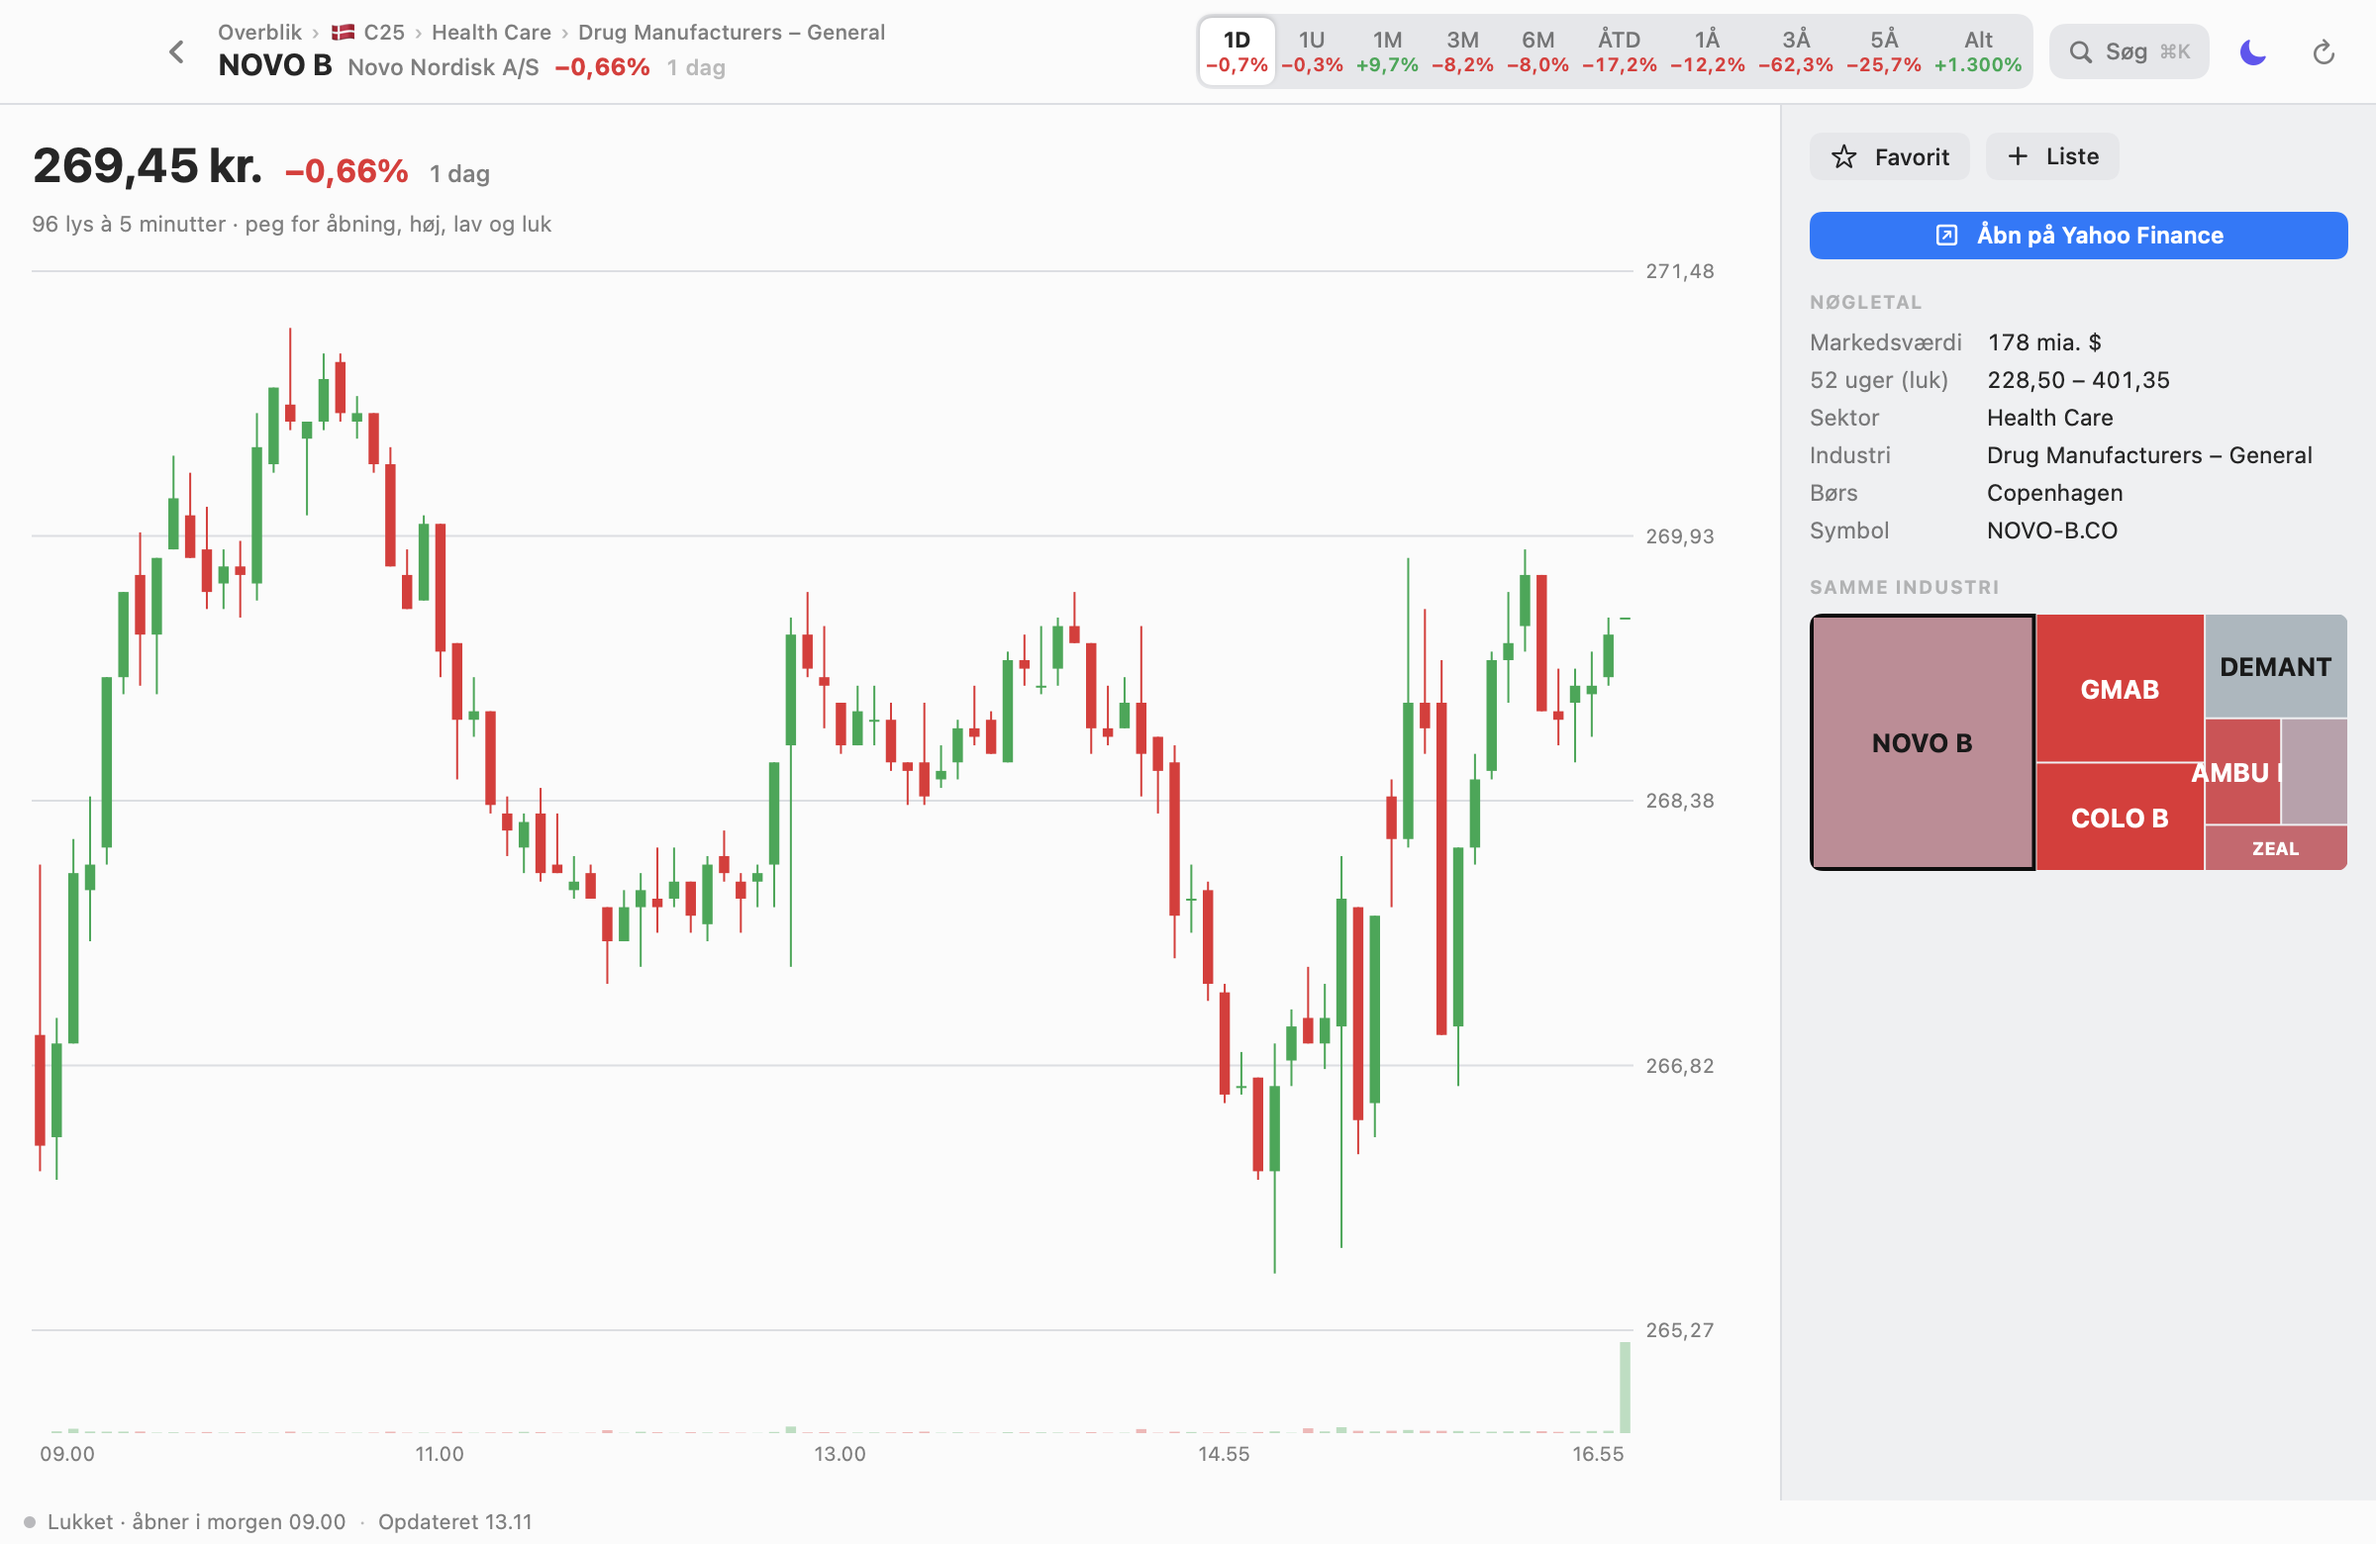
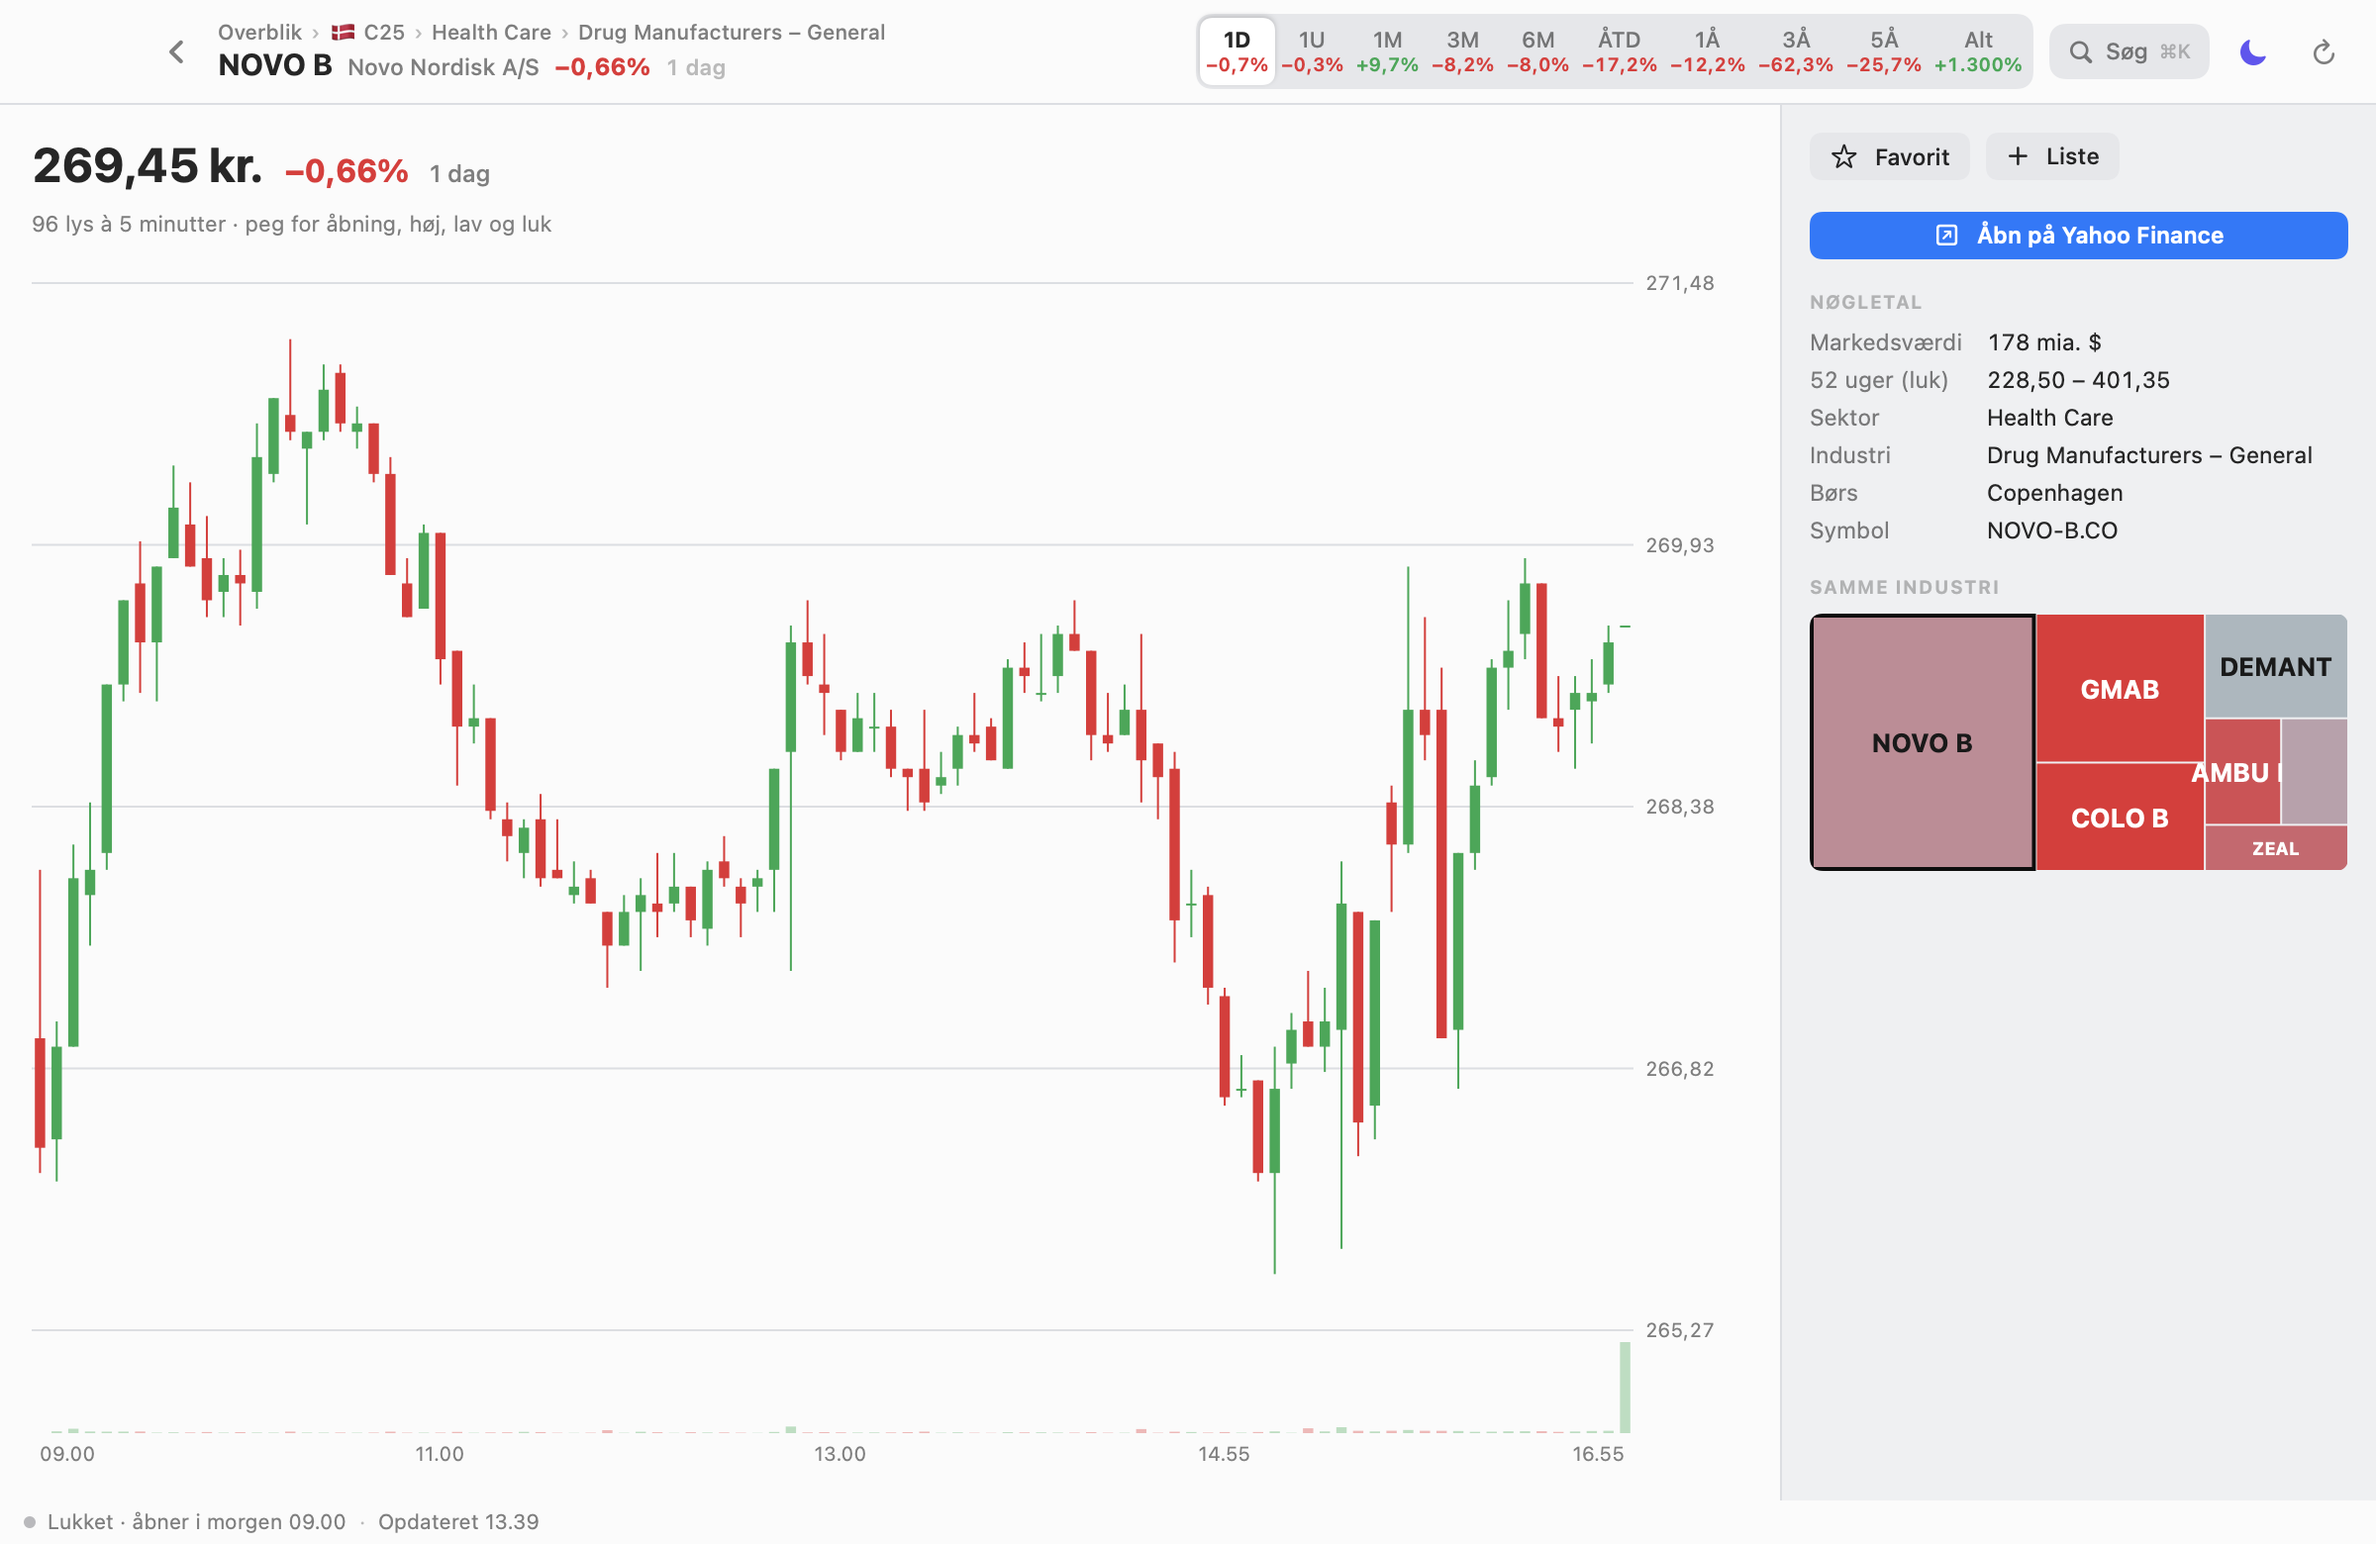
Keep the chart's top price label inside the plot and the breadcrumb readable
The candle chart's highest grid line moves down so its price label is no
longer cut off. Below the overview the title needs at least 260 pt before
the full period picker is shown (otherwise it becomes the menu), the first
and last breadcrumb steps keep their names while the middle ones shorten,
and the whole path is in the tooltip.

diff --git a/Sources/Stockmote/PanelView.swift b/Sources/Stockmote/PanelView.swift
@@ -151,8 +151,10 @@ private struct Toolbar: View {
             }
             // The title gives way first: it is truncated with … rather than
             // pushing the controls out of a narrow window.
+            // Below the overview the breadcrumb needs room too, so the picker
+            // turns into a menu a little sooner there.
             TitleBlock()
-                .frame(minWidth: 170, maxWidth: .infinity, alignment: .leading)
+                .frame(minWidth: app.screen == .overview ? 170 : 260, maxWidth: .infinity, alignment: .leading)
             // If there is no room for the whole period picker, it becomes a menu.
             ViewThatFits(in: .horizontal) {
                 controls(compact: false)
@@ -282,10 +284,14 @@ private struct TitleBlock: View {
                         }
                         .buttonStyle(.plain)
                         .foregroundStyle(.secondary)
+                        // "Overblik" and the nearest level keep their full names;
+                        // the levels in between are shortened first.
+                        .layoutPriority(position == 0 || position == crumbs.count - 1 ? 1 : 0)
                     }
                 }
                 .font(.system(size: 10.5, weight: .medium))
                 .lineLimit(1)
+                .help(crumbs.map(\.label).joined(separator: " › "))
             }
             HStack(alignment: .firstTextBaseline, spacing: 7) {
                 Text(title)

diff --git a/Sources/Stockmote/StockPage.swift b/Sources/Stockmote/StockPage.swift
@@ -300,7 +300,8 @@ struct CandleChart: View {
             let high = candles.map(\.high).max() ?? 1
             let pad = max((high - low) * 0.06, high * 0.001)
             let top = high + pad, bottom = low - pad
-            let y: (Double) -> CGFloat = { 8 + CGFloat((top - $0) / (top - bottom)) * (priceHeight - 8) }
+            // The top grid line sits low enough for its price label to fit above the plot's edge.
+            let y: (Double) -> CGFloat = { 14 + CGFloat((top - $0) / (top - bottom)) * (priceHeight - 14) }
             let step = plot.width / CGFloat(max(candles.count, 1))
             let up = Heat.textColor(1, style: style, theme: theme)
             let down = Heat.textColor(-1, style: style, theme: theme)
